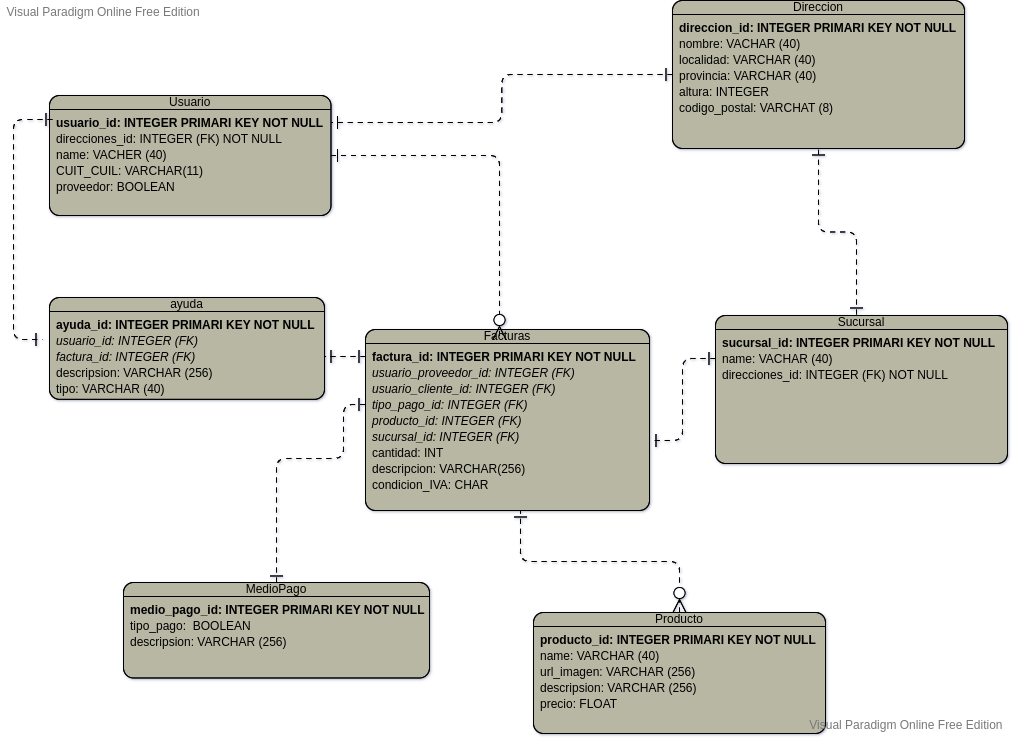
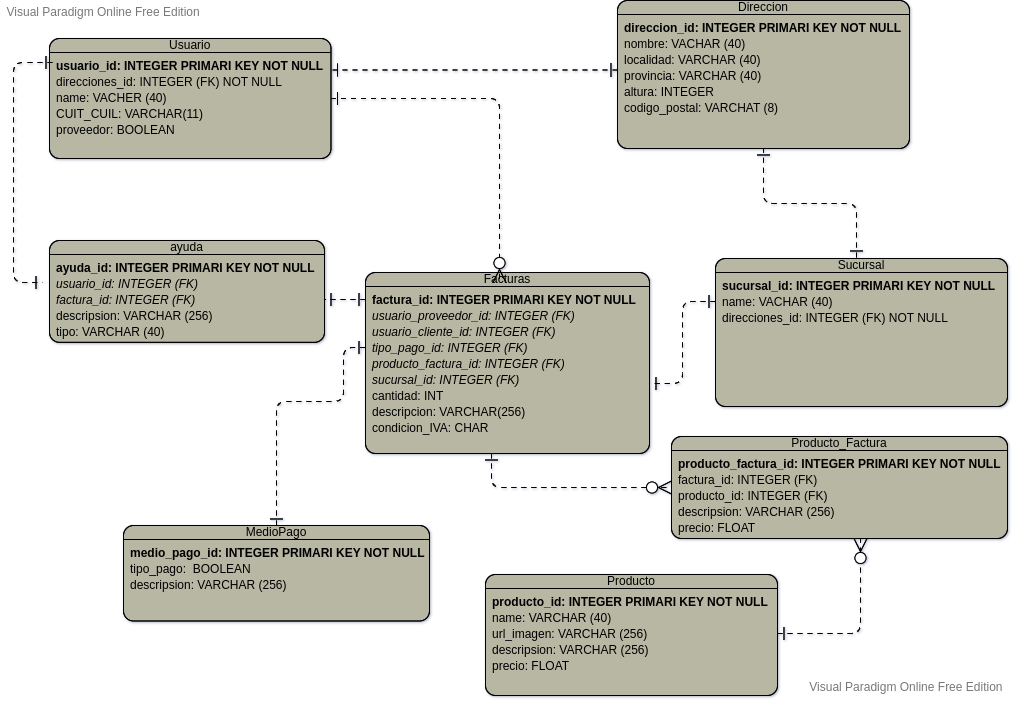
New producto_factura table addedd.

diff --git a/README.md b/README.md
@@ -85,6 +85,21 @@ CREATE TABLE
 ![](assets/images/producto.png)
 
 ---
+
+---
+- PRODUCTO_FACTURAS :mag:_:receipt: 
+```
+CREATE TABLE
+    producto_factura(
+        producto_factura_id INTEGER NOT NULL PRIMARY KEY AUTOINCREMENT,
+        producto_id INTEGER NOT NULL REFERENCES producto (producto_id),
+        factura_id INTEGER NOT NULL REFERENCES facturas (factura_id)
+    );
+```
+![](assets/images/producto_factura.png)
+
+---
+
 - MEDIO DE PAGO :credit_card: :dollar:
 ```
 CREATE TABLE
@@ -1403,6 +1418,19 @@ values (
         'transition frictionless mindshare',
         'I'
     );
+```
+
+---
+- PRODUCTO_FACTURAS :mag:_:receipt: 
+
+```
+insert into
+    producto_factura (
+        producto_factura_id,
+        producto_id,
+        factura_id
+    )
+values (1, 1, 89), (2, 1, 97), (3, 7, 72), (4, 3, 13), (5, 8, 3), (6, 4, 8), (7, 9, 22), (8, 10, 3), (9, 6, 78), (10, 9, 54), (11, 2, 100), (12, 4, 50), (13, 8, 90), (14, 10, 51), (15, 10, 53), (16, 2, 4), (17, 9, 78), (18, 6, 28), (19, 10, 3), (20, 9, 36), (21, 5, 26), (22, 3, 69), (23, 7, 37), (24, 10, 69), (25, 10, 82), (26, 7, 29), (27, 5, 54), (28, 7, 64), (29, 2, 96), (30, 10, 91), (31, 10, 88), (32, 7, 22), (33, 4, 25), (34, 10, 98), (35, 3, 51), (36, 9, 51), (37, 9, 55), (38, 8, 2), (39, 7, 7), (40, 8, 13), (41, 4, 16), (42, 6, 11), (43, 6, 2), (44, 9, 7), (45, 10, 98), (46, 4, 3), (47, 8, 41), (48, 2, 9), (49, 10, 5), (50, 8, 24);
 ```
 
 ---
